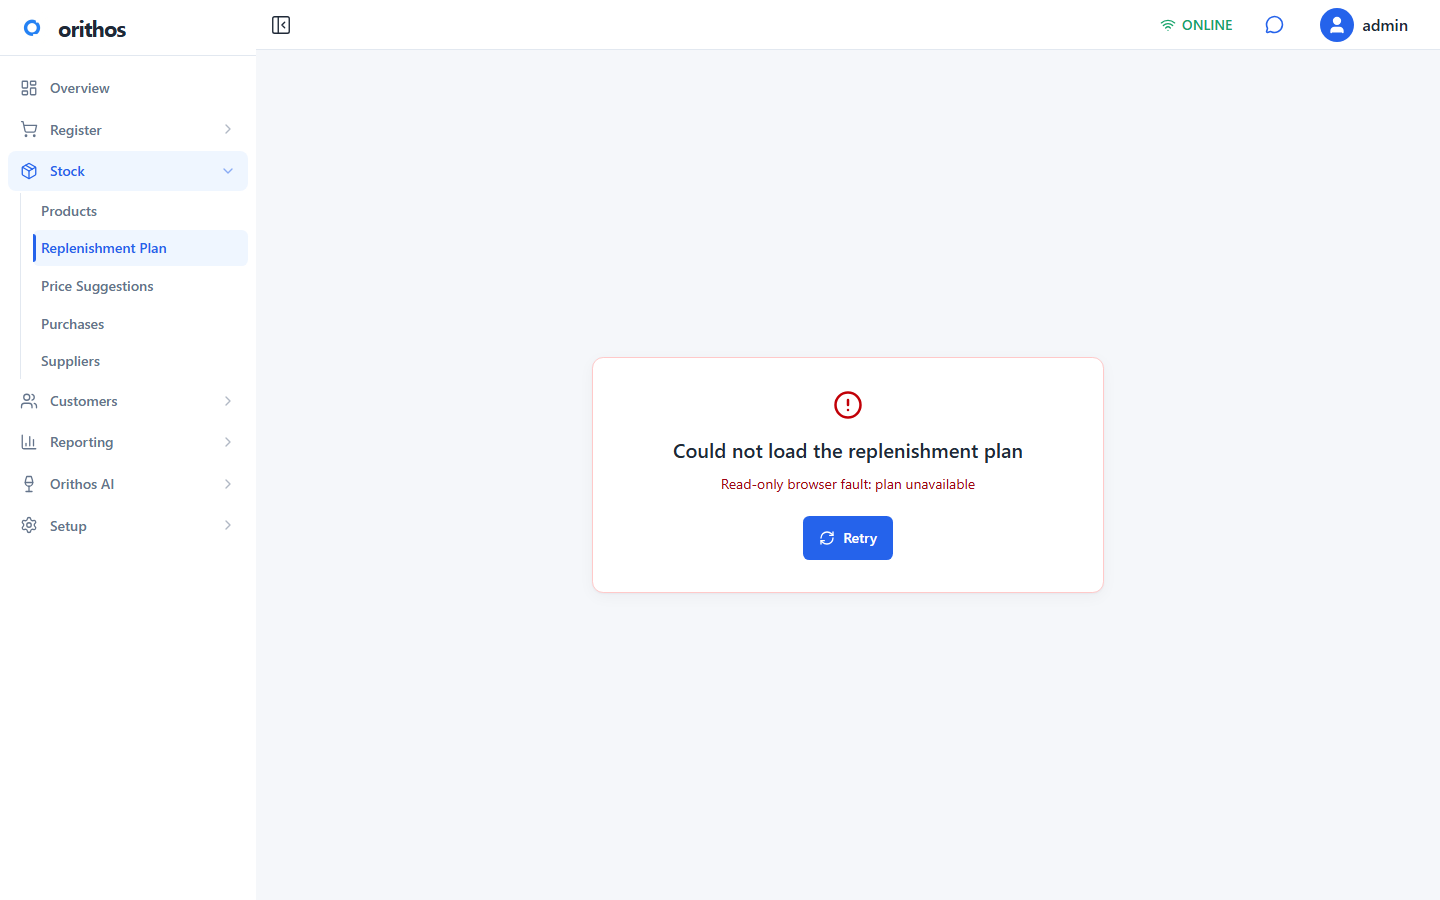
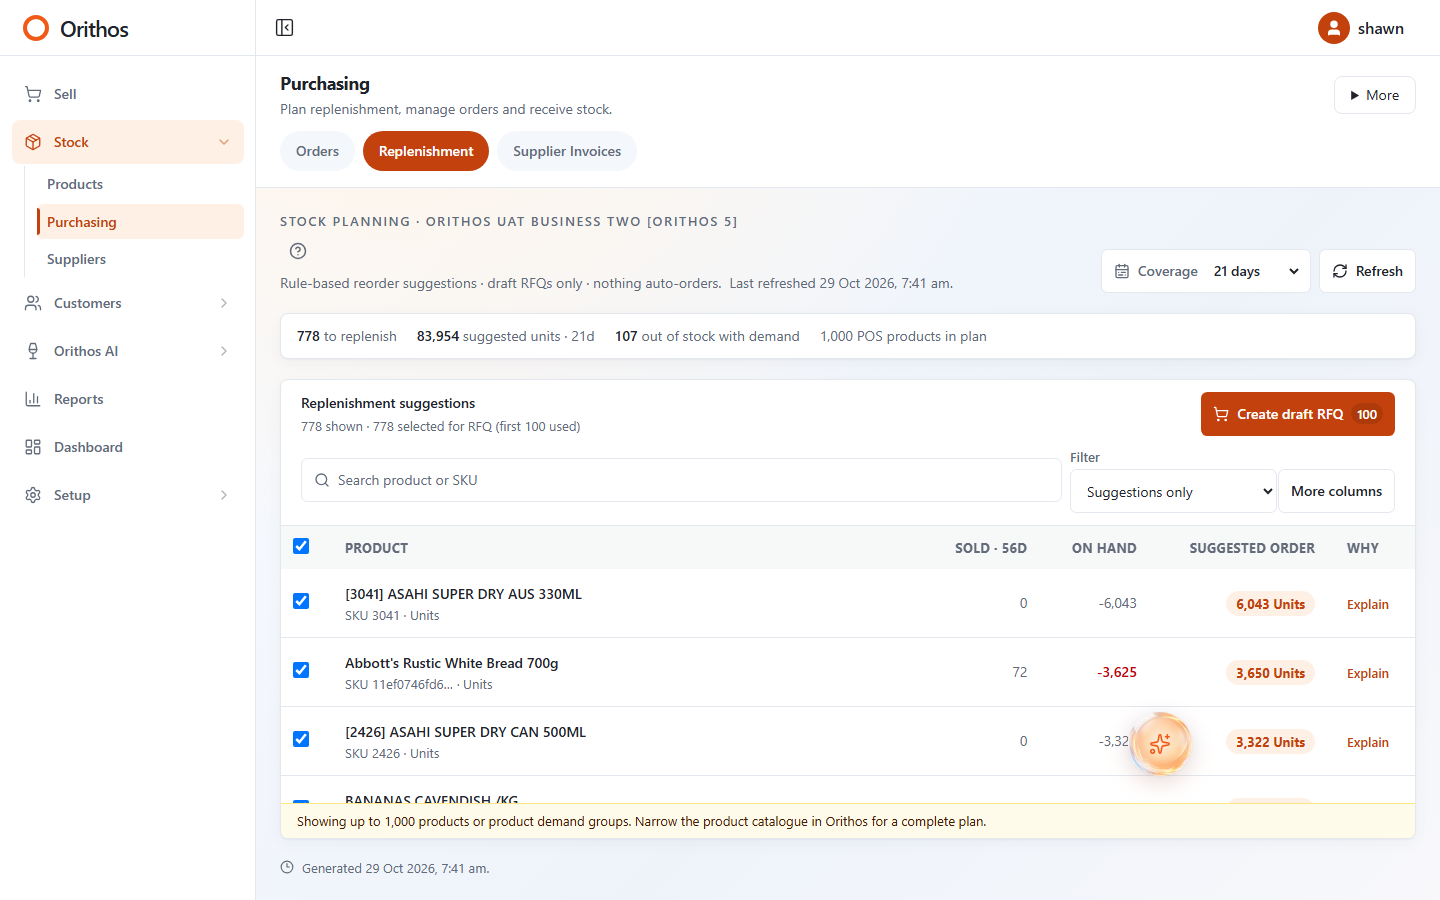
fix(pos-ui): restore replenishment route and harden UAT probe

diff --git a/pos-ui/app/stock/replenishment/page.tsx b/pos-ui/app/stock/replenishment/page.tsx
@@ -1,2 +1,10 @@
-import { redirect } from "next/navigation";
-export default function LegacyRoute() { redirect("/purchases?tab=replenishment"); }
+import { Suspense } from "react";
+import { OdooReplenishmentPage } from "@/components/OdooReplenishmentPage";
+
+export default function ReplenishmentRoute() {
+  return (
+    <Suspense fallback={<div className="grid h-full place-items-center p-8 text-sm text-[var(--oh-muted)]">Loading replenishment…</div>}>
+      <OdooReplenishmentPage />
+    </Suspense>
+  );
+}
